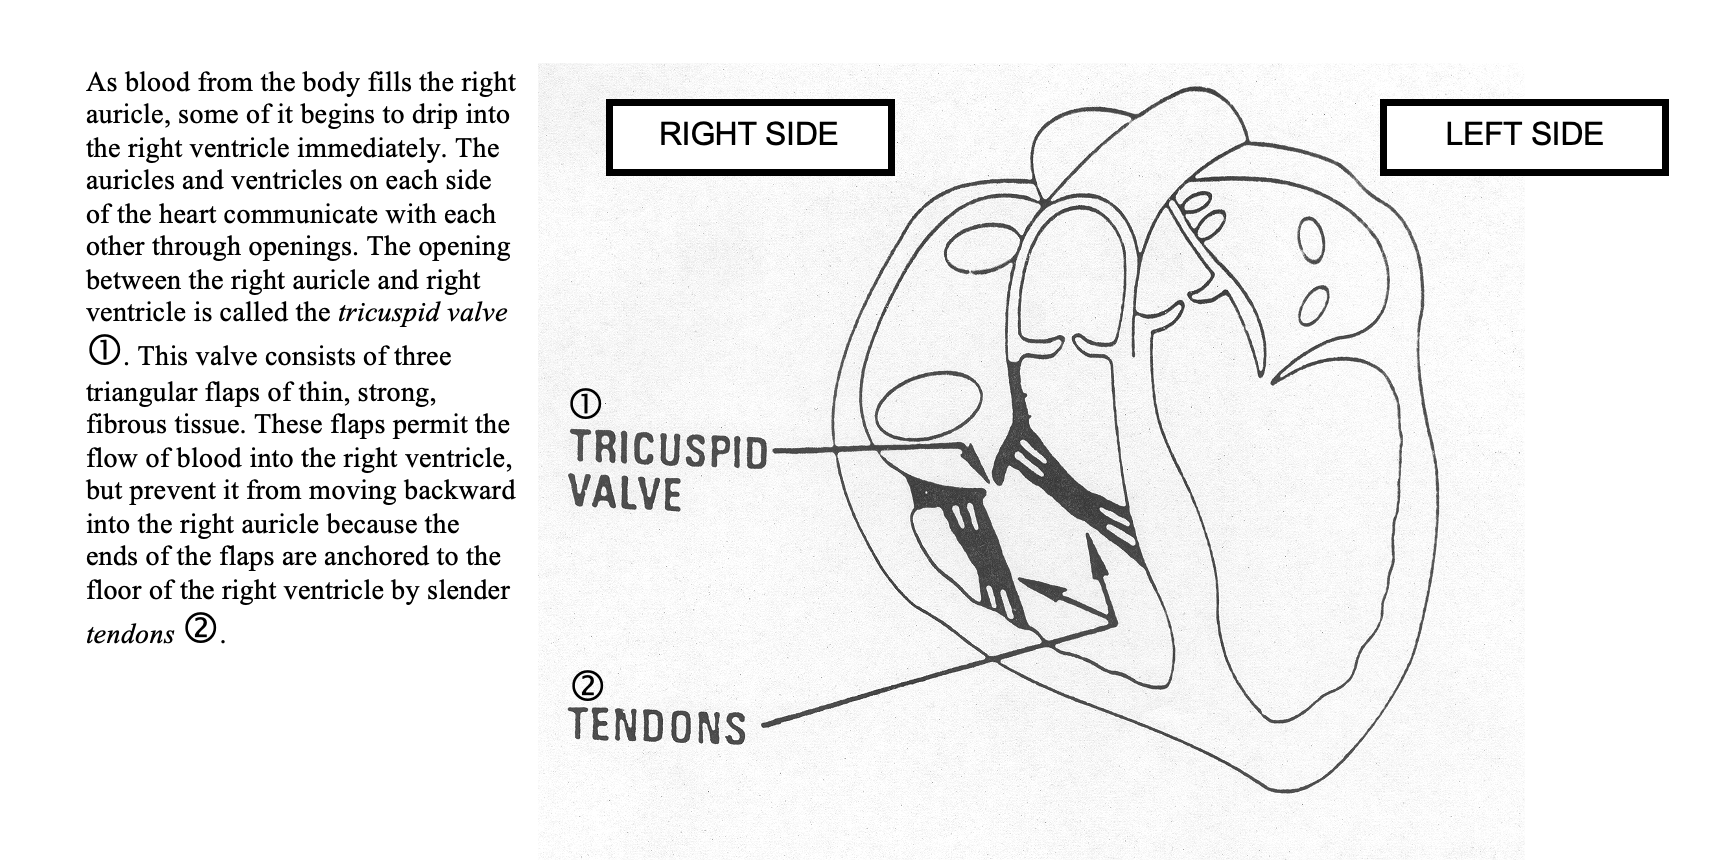
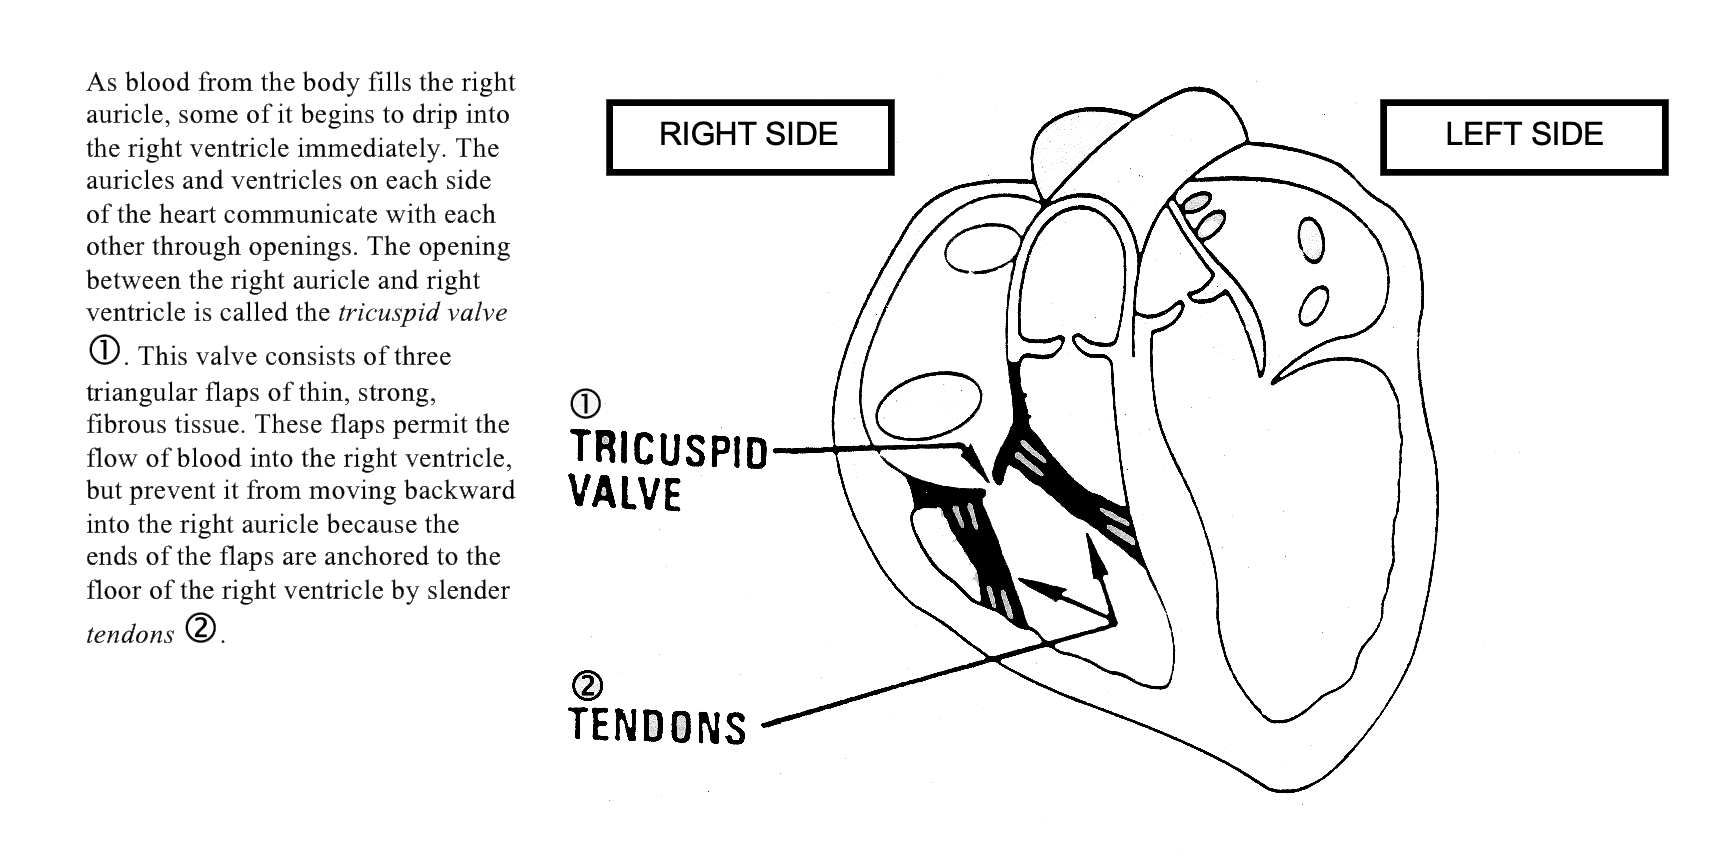
Updated survey

diff --git a/jsPsych/projects/splitattncursor2/index.html b/jsPsych/projects/splitattncursor2/index.html
@@ -284,7 +284,7 @@
   var browser_check = {
     type: jsPsychBrowserCheck,
     inclusion_function: (data) => {
-      return data.browser == "chrome" && data.mobile === false;
+      return data.browser == "chrome" || data.browser == "firefox" && data.mobile === false;
     },
     exclusion_message: (data) => {
       if (data.mobile) {
@@ -389,26 +389,21 @@
   ////////////////
   //Demographics
   var gender = {
-    type: jsPsychSurveyMultiChoice,
-    questions: [
-      {
-        prompt: `What is your gender? (select all that apply)`,
-        name: "selectedGender",
-        options: ["Female", "Male", "Non-binary / gender diverse"],
-        required: true,
-      },
-    ],
-    on_load: function() {
-    const options = document.querySelectorAll('.jspsych-survey-multi-choice-option');
-    if (options.length > 0) {
-      const wrapper = document.createElement('div');
-      wrapper.className = 'custom-options-container';
-      
-      // Insert the wrapper right before the first option, then move options inside it
-      options[0].parentNode.insertBefore(wrapper, options[0]);
-      options.forEach(opt => wrapper.appendChild(opt));
-    }
-  },
+    type: jsPsychSurvey,
+    survey_json: {
+      showQuestionNumbers: false,
+      elements: [
+        {
+          type: 'radiogroup',
+          title: 'What is your gender?',
+          name: "selectedGender",
+          choices: ["Female", "Male", "Non-binary / gender diverse", "Prefer not to say"],
+          showOtherItem: true,
+          otherText: "Other (please specify)",
+          isRequired: true,
+        }
+      ]
+    },
     on_finish: function (data) {
       data.stimulus = "Gender";
       data.gender = data.response.selectedGender;
@@ -418,26 +413,16 @@
   };
 
   var age = {
-    type: jsPsychSurveyMultiChoice,
+    type: jsPsychSurveyText,
     questions: [
       {
-        prompt: `What is your age?`,
+        prompt: `<p>What is your age?</p>`,
         name: "selectedAge",
-        options: ["16-24", "25-34", "35-49", "Over 50", "Prefer not to say"],
+        rows: 1,
+        columns: 20,
         required: true,
       },
     ],
-    on_load: function() {
-    const options = document.querySelectorAll('.jspsych-survey-multi-choice-option');
-    if (options.length > 0) {
-      const wrapper = document.createElement('div');
-      wrapper.className = 'custom-options-container';
-      
-      // Insert the wrapper right before the first option, then move options inside it
-      options[0].parentNode.insertBefore(wrapper, options[0]);
-      options.forEach(opt => wrapper.appendChild(opt));
-    }
-  },
     on_finish: function (data) {
       data.stimulus = "Age";
       data.age = data.response.selectedAge;
@@ -452,23 +437,23 @@
     type: jsPsychSurveyMultiChoice,
     questions: [
       {
-        prompt: `What type of pointing device are you using with your computer?`,
+        prompt: `<p>What type of pointing device are you using with your computer?</p>`,
         name: "selectedDevice",
         options: ["Mouse", "Trackpad"],
         required: true,
       },
     ],
-    on_load: function() {
-    const options = document.querySelectorAll('.jspsych-survey-multi-choice-option');
-    if (options.length > 0) {
-      const wrapper = document.createElement('div');
-      wrapper.className = 'custom-options-container';
-      
-      // Insert the wrapper right before the first option, then move options inside it
-      options[0].parentNode.insertBefore(wrapper, options[0]);
-      options.forEach(opt => wrapper.appendChild(opt));
-    }
-  },
+    on_load: function () {
+      const options = document.querySelectorAll('.jspsych-survey-multi-choice-option');
+      if (options.length > 0) {
+        const wrapper = document.createElement('div');
+        wrapper.className = 'custom-options-container';
+
+        // Insert the wrapper right before the first option, then move options inside it
+        options[0].parentNode.insertBefore(wrapper, options[0]);
+        options.forEach(opt => wrapper.appendChild(opt));
+      }
+    },
     on_finish: function (data) {
       data.stimulus = "Device";
       data.device = data.response.selectedDevice;
@@ -481,23 +466,23 @@
     type: jsPsychSurveyMultiChoice,
     questions: [
       {
-        prompt: `What is your dominant hand?`,
+        prompt: `<p>What is your dominant hand?</p>`,
         name: "selectedHandedness",
         options: ["Right", "Left", "Ambidextrous"],
         required: true,
       },
     ],
-    on_load: function() {
-    const options = document.querySelectorAll('.jspsych-survey-multi-choice-option');
-    if (options.length > 0) {
-      const wrapper = document.createElement('div');
-      wrapper.className = 'custom-options-container';
-      
-      // Insert the wrapper right before the first option, then move options inside it
-      options[0].parentNode.insertBefore(wrapper, options[0]);
-      options.forEach(opt => wrapper.appendChild(opt));
-    }
-  },
+    on_load: function () {
+      const options = document.querySelectorAll('.jspsych-survey-multi-choice-option');
+      if (options.length > 0) {
+        const wrapper = document.createElement('div');
+        wrapper.className = 'custom-options-container';
+
+        // Insert the wrapper right before the first option, then move options inside it
+        options[0].parentNode.insertBefore(wrapper, options[0]);
+        options.forEach(opt => wrapper.appendChild(opt));
+      }
+    },
     on_finish: function (data) {
       data.stimulus = "Hand";
       data.handedness = data.response.selectedHandedness;
@@ -538,15 +523,15 @@
     version: "chupouw",
     practice: true,
     on_finish: function (data) {
-      if (data.chupouw_score == 1) {
+      if (data.vpt_chupouw_score == 1) {
         passedPracticeGrids = true;
         console.log("Participant Passed Practice");
       }
-      lastScore = Number(data.total_score);
-      totalTrials = Number(data.total_trials);
-      //console.log(`Chupouw score was ${data.chupouw_score}`);
-      //console.log(`Della Sala score was ${data.dellasala_score}`);
-      console.log(`Total ${data.total_score} ${lastScore}`);
+      lastScore = Number(data.vpt_total_score);
+      totalTrials = Number(data.vpt_total_trials);
+      //console.log(`Chupouw score was ${data.vpt_chupouw_score}`);
+      //console.log(`Della Sala score was ${data.vpt_dellasala_score}`);
+      console.log(`Total ${data.vpt_total_score} ${lastScore}`);
     },
     data: {},
   };
@@ -566,7 +551,7 @@
     timeline: [tryAgain, practiceVPTInstructions, practiceVPT],
     loop_function: function () {
       currentColour = colours[randomIntFromInterval(0, colours.length - 1)];
-      if (!passedPracticeGrids) {
+      if ((passedPracticeGrids = false)) {
         return true;
       } else {
         return false;
@@ -606,16 +591,27 @@
     version: "chupouw",
     practice: false,
     on_finish: function (data) {
-      lastScore = Number(data.total_score);
-      totalTrials = Number(data.total_trials);
-      console.log(`Chupouw score was ${data.chupouw_score}`);
-      console.log(`Della Sala score was ${data.dellasala_score}`);
+      lastScore = Number(data.vpt_total_score);
+      totalTrials = Number(data.vpt_total_trials);
+      console.log(`Chupouw score was ${data.vpt_chupouw_score}`);
+      console.log(`Della Sala score was ${data.vpt_dellasala_score}`);
     },
   };
 
   //////////////////////////////////////////////////////
   //This loads instructions page 1
-
+  /*
+      var postVPTInstructions = {
+        type: jsPsychInstructions,
+        allow_backward: false,
+        pages: function () {
+          return [
+            `Thanks for trying this memory game. Your final score was ${lastScore}/${totalTrials}. `,
+          ];
+        },
+        show_clickable_nav: true,
+        button_label_next: "Finish",
+      };*/
 
   var postVPTInstructions = {
     type: jsPsychHtmlButtonResponse,
@@ -797,15 +793,6 @@
         // code block
       }
 
-    },
-    data: {},
-  };
-
-  var reset_cursor = {
-    type: jsPsychCallFunction,
-    func: function () {
-      document.body.style.removeProperty("cursor");
-      document.documentElement.style.removeProperty("cursor");
     },
     data: {},
   };
@@ -1047,7 +1034,6 @@
 
     //DEMOGRAPHICS
     timeline.push(gender);
-   
     timeline.push(age);
     timeline.push(device);
     timeline.push(handedness);
@@ -1066,10 +1052,10 @@
       timeline.push(attention_check);
       timeline.push(attn_check_if_node);
     }
-    //PRIOR KNOWLEDGE TEST
+    //PRIOR KNOLWEDGE TEST
     timeline.push(preTestInstructions);
-    buildTest("pretest", timeline); //this calls a few timeline pushes
 
+    buildTest("pretest", timeline); //this calls a few timeline pushes
     //ATTENTION CHECK FOR PROLIFIC USERS
     if (prolific_pid != null) {
       timeline.push(attention_check);
@@ -1104,9 +1090,6 @@
         },
       });
 
-      //Restore the normal cursor for the PAAS scale
-      timeline.push(reset_cursor);
-
       timeline.push({
         ...paas_scale,
         questions: paas_scale.questions.map((question) => ({
@@ -1119,12 +1102,14 @@
           page: pageNumber,
         },
       });
-
-      //Re-apply the condition cursor before the next study page
-      if (i < studyPages.length - 1) {
-        timeline.push(set_cursor);
-      }
     }
+    timeline.push({
+      type: jsPsychCallFunction,
+      func: function () {
+        document.body.style.removeProperty("cursor");
+        document.documentElement.style.removeProperty("cursor");
+      },
+    });
     timeline.push(me_instructions);
     //timeline.push(paas_scale);
     timeline.push(klepsch_ICL_scale);
